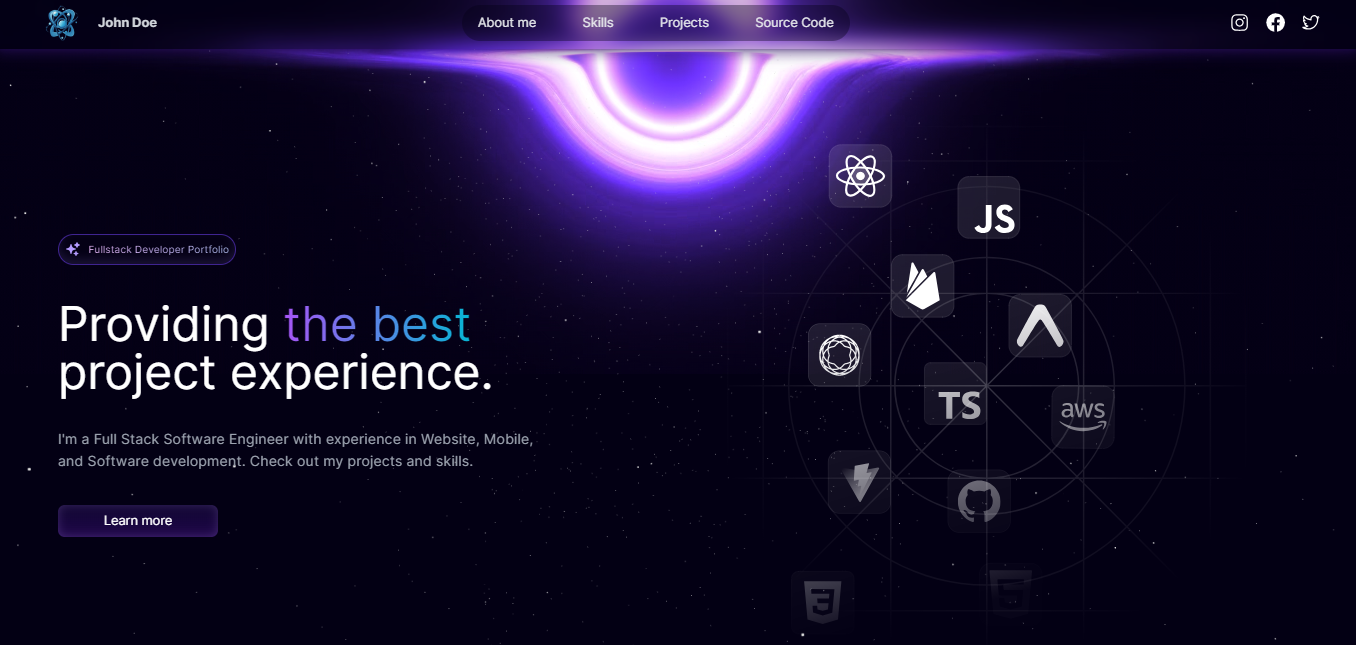
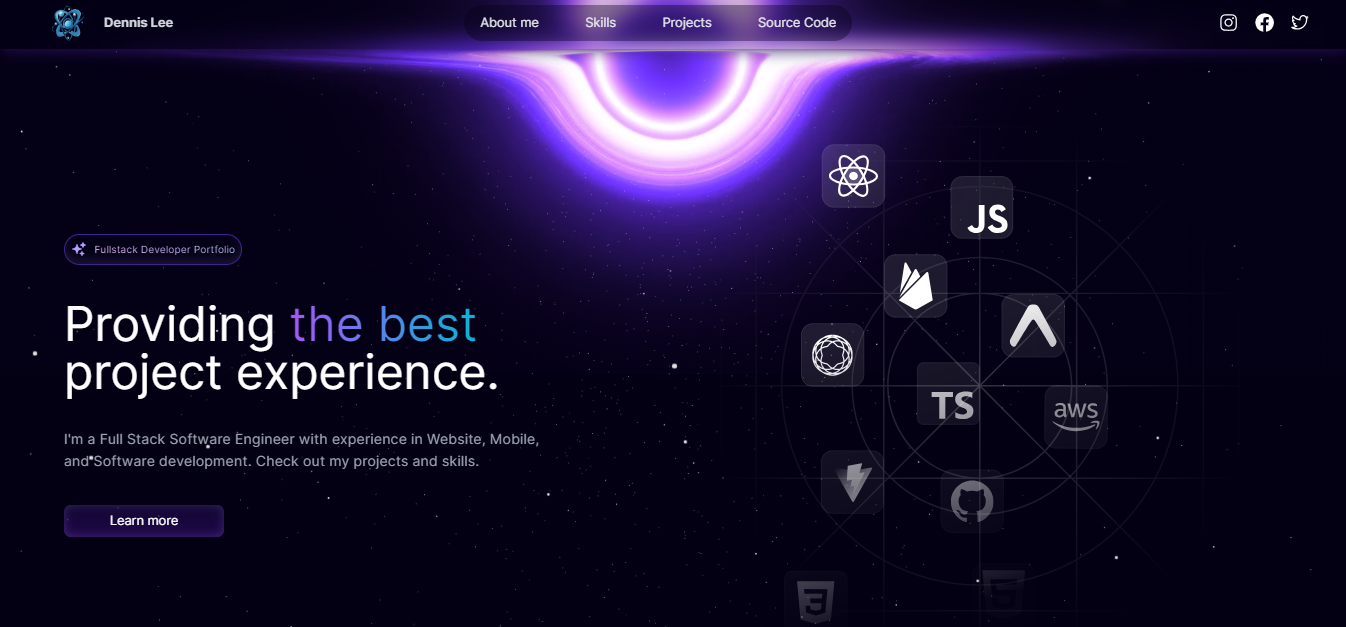
Improving

diff --git a/components/main/footer.tsx b/components/main/footer.tsx
@@ -30,7 +30,7 @@ export const Footer = () => {
         </div>
 
         <div className="mb-[20px] text-[15px] text-center">
-          &copy; John Doe {new Date().getFullYear()} Inc. All rights reserved.
+          &copy; Dennis Lee {new Date().getFullYear()} Inc. All rights reserved.
         </div>
       </div>
     </div>

diff --git a/config/index.ts b/config/index.ts
@@ -1,7 +1,7 @@
 import type { Metadata } from "next";
 
 export const siteConfig: Metadata = {
-  title: "John Doe | Space Portfolio",
+  title: "Dennis Lee | FullStact_dev portfolio",
   description: "Welcome to my full stack Next.js 14 space portfolio.",
   keywords: [
     "reactjs",

diff --git a/components/main/navbar.tsx b/components/main/navbar.tsx
@@ -20,7 +20,7 @@ export const Navbar = () => {
             className="cursor-pointer hover:animate-slowspin"
           />
           <div className="font-bold ml-[10px] hidden md:block text-gray-300">
-            John Doe
+            Dennis Lee
           </div>
         </Link>
 
